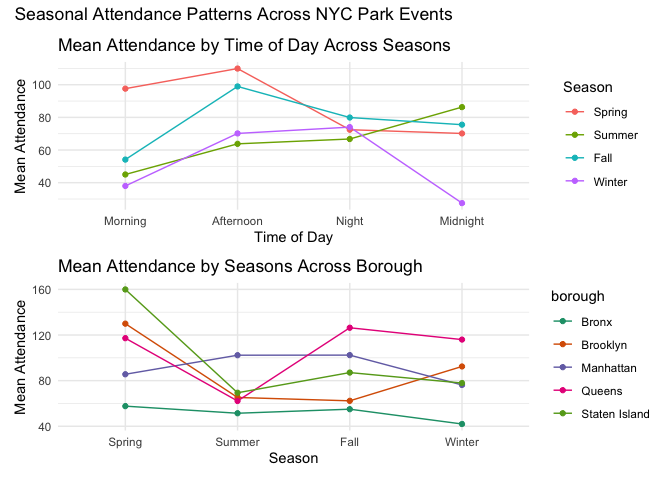
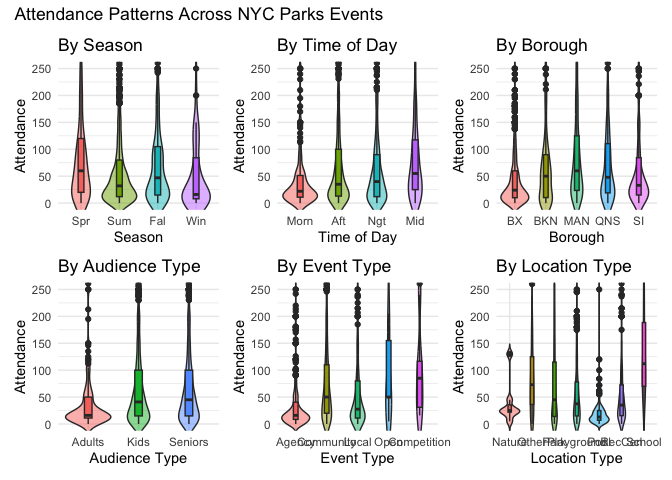
add audience polt

Changed region(s): [[0.0, 0.0, 1.0, 0.9688], [0.0, 0.5938, 0.0938, 0.875], [0.6875, 0.5938, 0.75, 0.625]]

diff --git a/data.md b/data.md
@@ -11,8 +11,8 @@ library(tidyverse)
 
     ## ── Attaching core tidyverse packages ──────────────────────── tidyverse 2.0.0 ──
     ## ✔ dplyr     1.1.4     ✔ readr     2.1.5
-    ## ✔ forcats   1.0.0     ✔ stringr   1.5.1
-    ## ✔ ggplot2   3.5.2     ✔ tibble    3.3.0
+    ## ✔ forcats   1.0.1     ✔ stringr   1.5.2
+    ## ✔ ggplot2   4.0.0     ✔ tibble    3.3.0
     ## ✔ lubridate 1.9.4     ✔ tidyr     1.3.1
     ## ✔ purrr     1.1.0     
     ## ── Conflicts ────────────────────────────────────────── tidyverse_conflicts() ──
@@ -34,6 +34,7 @@ library(janitor)
 ``` r
 library(ggplot2)
 library(patchwork)
+library(RColorBrewer)
 ```
 
 outcome: attendance variables: season, event type, borough, location
@@ -43,6 +44,10 @@ Miranda Chen: model (before 11:59PM Friday) Huiyi Zhu: clean data
 (date:2022.5-present, morning5-12 afternoon 12-6 night 6-1 midnight?) +
 basic descriptive analysis Yiyang Jiao: report+video (9:00PM Sat)
 Xiaoqian Lyu: report Yuyue Ma: web(sat)
+
+``` r
+raw = read.csv("Parks_Special_Events_20251204.csv")
+```
 
 ## Data Cleaning
 
@@ -73,17 +78,18 @@ parkevent = read.csv("Parks_Special_Events_20251204.csv") |>
    time_period = factor(time_period,
                      levels = c("Morning", "Afternoon", "Night", "Midnight")),
     attendance = as.numeric(attendance))|>  
+  
   mutate(
     aud_list = str_split(audience, ";|,"),
-    aud_list = map(aud_list, ~ str_trim(.x))) |>
-  mutate(
+    aud_list = map(aud_list, ~ str_trim(.x)),
     has_children = map_lgl(aud_list, ~ any(.x %in% c("Children", "Kids", "Tot"))),
     has_seniors  = map_lgl(aud_list, ~ any(.x %in% c("Seniors", "Senior"))),
     has_genpub   = map_lgl(aud_list, ~ any(.x == "General Public")),
     
     kids_friendly   = has_children | has_genpub,
     senior_friendly = has_seniors  | has_genpub,
-    adults_only     = !kids_friendly) |>
+    adults_only     = !kids_friendly & !senior_friendly)|> 
+  
   select(
     -datetime,
     -unit,
@@ -93,10 +99,14 @@ parkevent = read.csv("Parks_Special_Events_20251204.csv") |>
     -source,
     -hour,
     -event_name,
-    -location) |> 
+    -location,
+
+    -aud_list,
+    -has_children,
+    -has_seniors,
+    - has_genpub) |> 
   select(
-    date, year, month, day, time, season,
-    everything()) |> 
+    date, year, month, day, time, season,time_period, everything()) |> 
     filter(date >= as.Date("2021-06-01"),
            event_type != "",
            category != "",
@@ -117,7 +127,7 @@ filtered observations to the NYC fully reopened period after COVID (date
 \>= “2021-06-01”) to avoid pandemic-related disruptions. Columns not
 relevant to the analysis were removed, and rows with empty event_type,
 category and attendance values were dropped. After cleaning, we have
-2447 observations and 20 variables. These steps produced a tidy dataset
+2447 observations and 16 variables. These steps produced a tidy dataset
 aligned with our study.
 
 How we cleaned the audience type: We first standardized the audience
@@ -132,6 +142,8 @@ marked as senior-friendly if Seniors were listed or if the audience was
 General Public. Finally, we defined adults-only events as those not
 classified as kids-friendly, meaning no child-oriented groups were
 present in the audience description.
+
+Dropped the unnecessary variables generated during the process
 
 ``` r
 parkevent %>% count(kids_friendly)
@@ -154,8 +166,8 @@ parkevent %>% count(adults_only)
 ```
 
     ##   adults_only    n
-    ## 1       FALSE 2195
-    ## 2        TRUE  252
+    ## 1       FALSE 2228
+    ## 2        TRUE  219
 
 ## Descriptive Analysis
 
@@ -220,7 +232,7 @@ plot_type =
     "Community Based Event" = "Community",
     "Local Event" = "Local",
     "Open House" = "Open",
-    "Tournament/Competition" = "Compet")) +
+    "Tournament/Competition" = "Competition")) +
    guides(fill = "none") +
   labs(
     title = "By Event Type",
@@ -263,26 +275,86 @@ plot_location =
    guides(fill = "none") +
   theme_minimal()
 
+parkevent_long <- parkevent |> 
+  pivot_longer(
+    cols = c(kids_friendly, senior_friendly, adults_only),
+    names_to  = "audience_type",
+    values_to = "flag"
+  ) |> 
+  filter(flag) |> 
+  select(-flag) |> 
+  mutate(
+    audience_type = recode(
+      audience_type,
+      kids_friendly   = "Kids",
+      senior_friendly = "Seniors",
+      adults_only     = "Adults"))
+
+plot_audience =
+  ggplot(parkevent_long,
+         aes(x = audience_type, y = attendance, fill = audience_type)) +
+  geom_violin(trim = FALSE, alpha = 0.5) +
+  geom_boxplot(width = 0.15) +
+  coord_cartesian(ylim = c(0, 250)) +
+  labs(
+    title = "By Audience Type",
+    x = "Audience Type",
+    y = "Attendance") +
+  guides(fill = "none") +
+  theme_minimal()
+
 patterns_plot =
   ((plot_season |plot_time| plot_borough) /
-    (plot_type| plot_location))+
+    (plot_audience|plot_type| plot_location))+
   plot_annotation(
     title = "Attendance Patterns Across NYC Parks Events",
     theme = theme())
 patterns_plot
 ```
 
-![](data_files/figure-gfm/unnamed-chunk-5-1.png)<!-- -->
+![](data_files/figure-gfm/unnamed-chunk-6-1.png)<!-- -->
 
 Figure displays violin–boxplots of attendance by season, time of day,
-borough, event type, and location type. These plots summarize both the
-distribution (violin shape) and central tendency (box plot) for each
-category, allowing visual comparison of how attendance varies across
-park events. We restricted the y-axis to 0–250 attendees because most
-events fall within this range, while a small number of very large events
-have much higher attendance. Without this limit, those extreme values
-compress the main body of the data and make differences between typical
-events difficult to see.
+borough, event type, aduience type and location type. These plots
+summarize both the distribution (violin shape) and central tendency (box
+plot) for each category, allowing visual comparison of how attendance
+varies across park events. We restricted the y-axis to 0–250 attendees
+because most events fall within this range, while a small number of very
+large events have much higher attendance. Without this limit, those
+extreme values compress the main body of the data and make differences
+between typical events difficult to see.
+
+``` r
+ggplot(parkevent_long,
+       aes(x = month, fill = audience_type)) +
+  geom_bar(position = "fill") 
+```
+
+![](data_files/figure-gfm/unnamed-chunk-7-1.png)<!-- -->
+
+``` r
+  labs(
+    title = "Audience Composition by Borough",
+    x = "Month",
+    y = "Proportion",
+    fill = "Audience Type"
+  ) +
+  theme_minimal()
+```
+
+    ## NULL
+
+This stacked bar chart shows how audience composition varies across
+months for NYC park events. Kids-friendly events consistently represent
+the largest share throughout the year, especially from April to October,
+indicating strong family engagement during warmer months.
+Senior-friendly events also maintain a substantial and steady presence,
+peaking in early spring and again in late summer. Adults-only events
+fluctuate more noticeably, with higher proportions in winter months such
+as January and December. Overall, the chart highlights seasonal shifts
+in audience needs: family-oriented programming dominates most of the
+year, while adult-focused events become relatively more common during
+colder months.
 
 ``` r
 plot_time_season =
@@ -338,7 +410,7 @@ Seasonal_plot =
 Seasonal_plot
 ```
 
-![](data_files/figure-gfm/unnamed-chunk-6-1.png)<!-- -->
+![](data_files/figure-gfm/unnamed-chunk-8-1.png)<!-- -->
 
 The first plot shows how mean attendance varies by time of day across
 seasons. Spring consistently has the highest turnout, especially in the
@@ -379,7 +451,7 @@ plot_calendar =
 plot_calendar
 ```
 
-![](data_files/figure-gfm/unnamed-chunk-7-1.png)<!-- -->
+![](data_files/figure-gfm/unnamed-chunk-9-1.png)<!-- -->
 
 This plot shows how park event attendance varies throughout the calendar
 year by combining individual event points with a smoothed monthly trend
